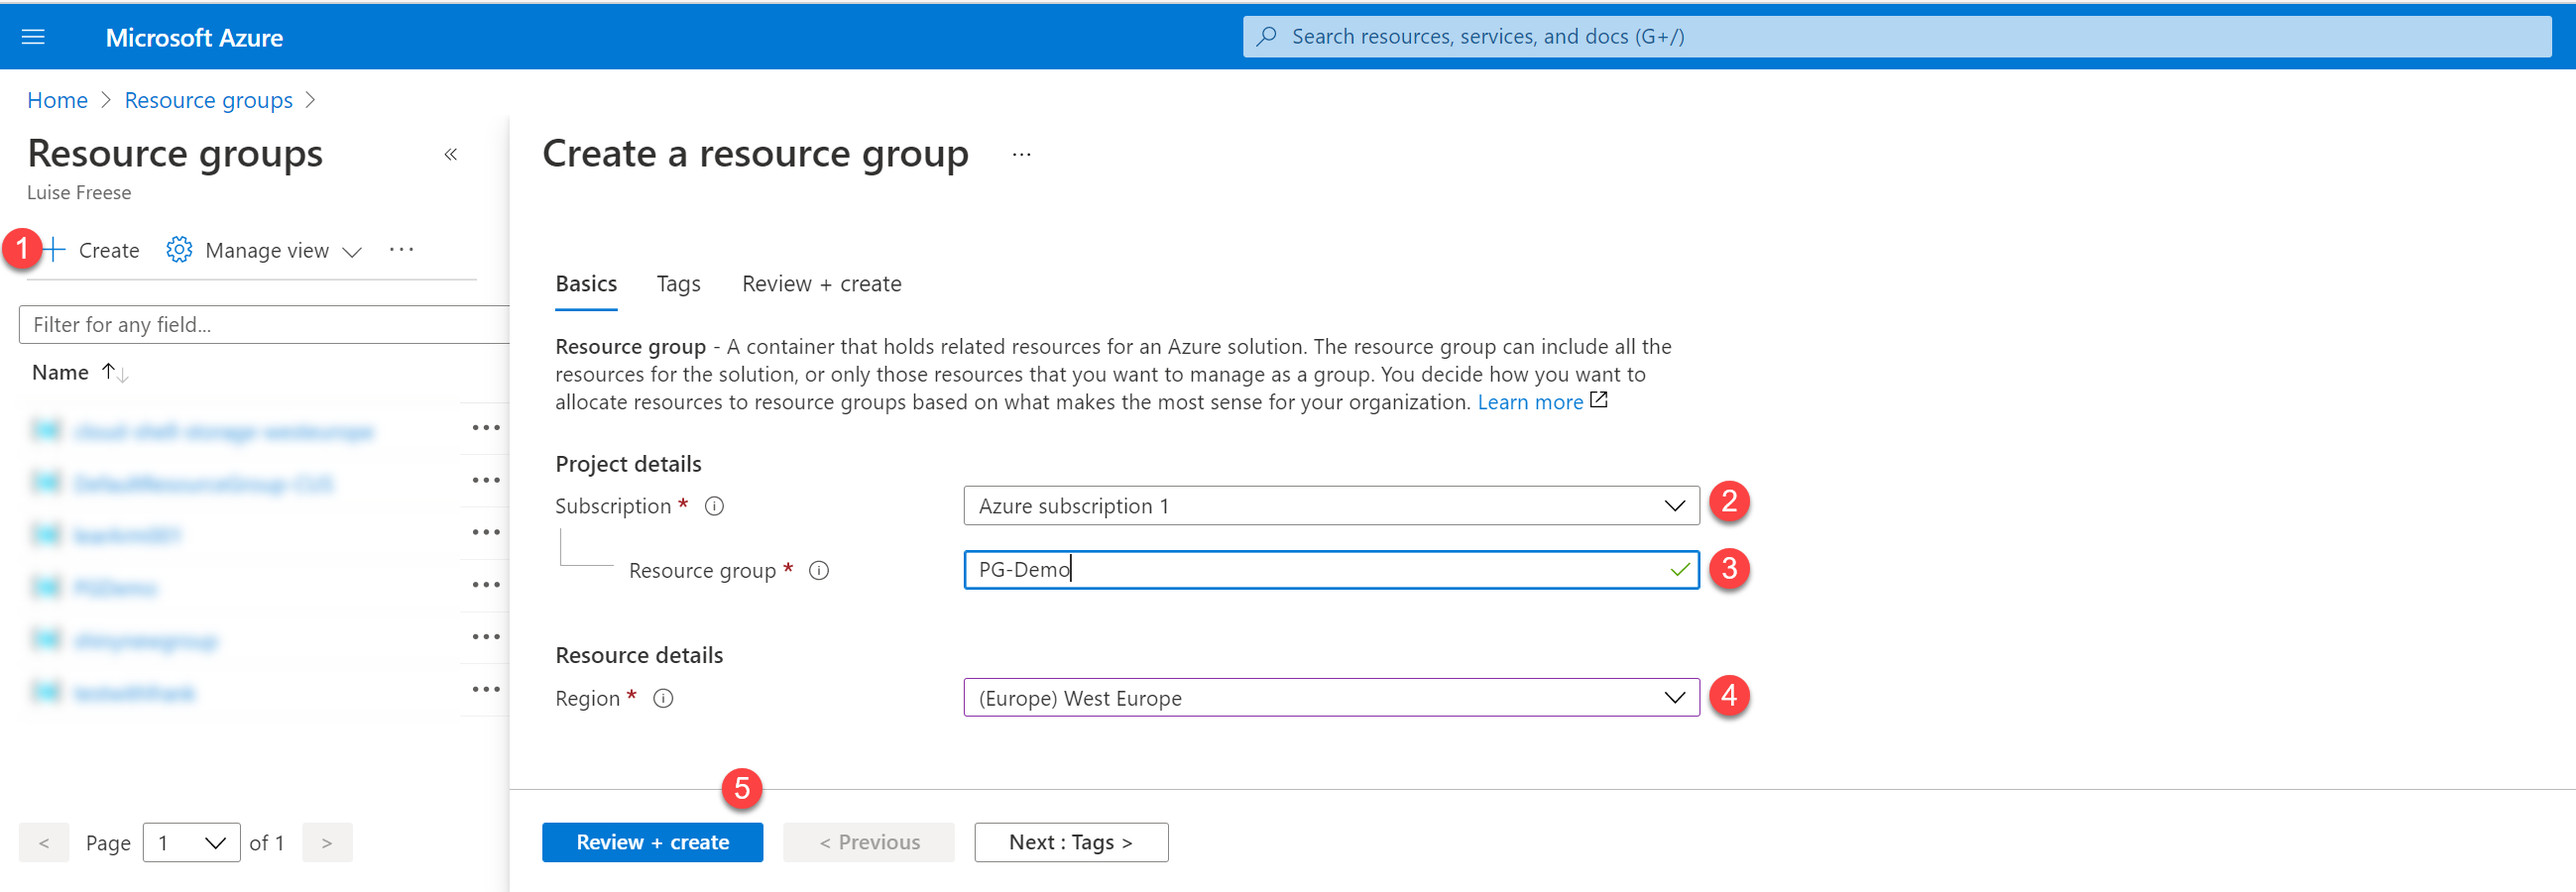
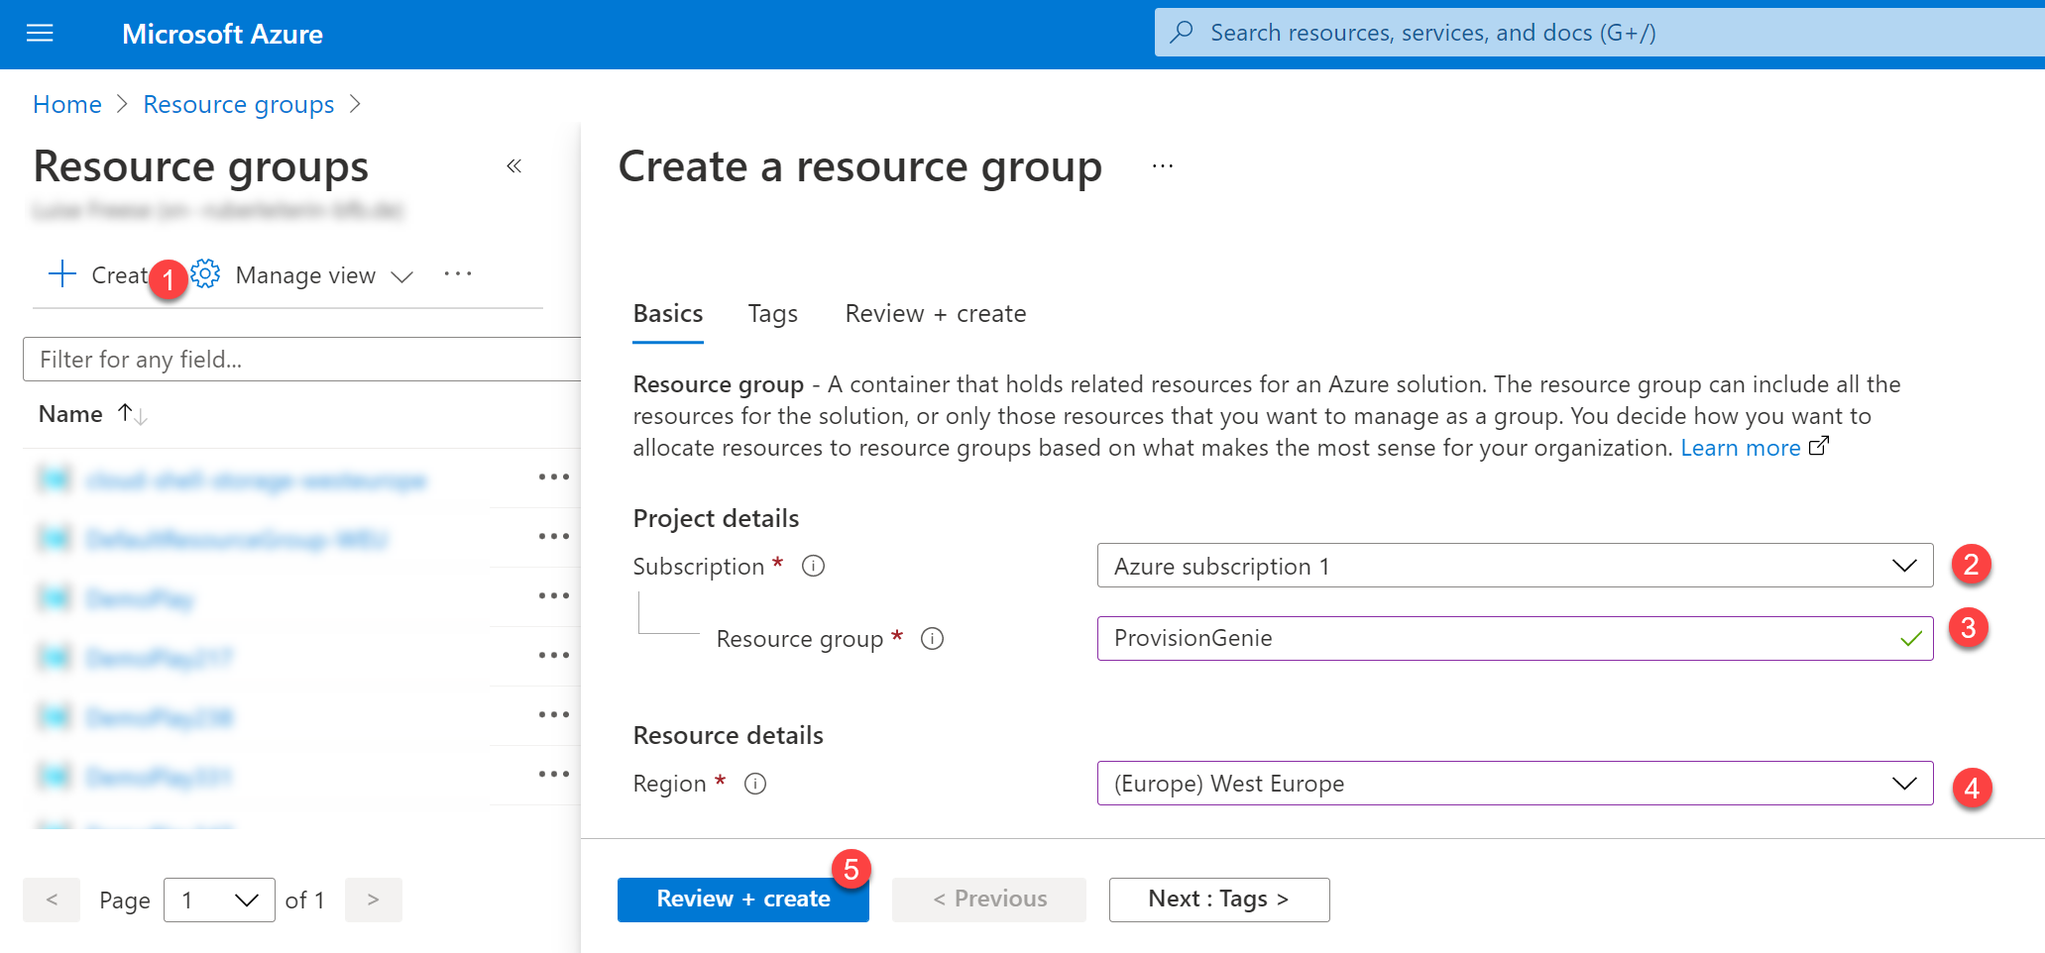
DOCS excluded CLI way to create resources for conciseness, adds consistent screenshots for DG, adds Provisiongenie Admin security role

diff --git a/Docs/DeploymentGuide.md b/Docs/DeploymentGuide.md
@@ -15,7 +15,7 @@ This guide shall walk you through the minimal path to awesome. It lists all step
 - Admin role Azure: [Contributor](https://docs.microsoft.com/azure/role-based-access-control/built-in-roles#contributor)
 - Power Platform role: [System Administrator](https://docs.microsoft.com/power-platform/admin/database-security)
 
-## Steps
+## Deployment steps
 
 In order to successfully deploy ProvisionGenie, you will need to perform the following steps
 
@@ -31,9 +31,7 @@ You can successfully install and run ProvisionGenie without forking and cloning 
 
 ### 1. App registration to access Dataverse tables
 
-You will need to register an app in Azure AD in order to access the dataverse tables in the Logic Apps. You can register the app either using the [Azure portal](#app-registration-to-access-dataverse-tables-using-azure-portal) or by using [Azure CLI](#app-registration-to-access-dataverse-tables-using-azure-cli)
-
-#### App registration to access Dataverse tables using Azure portal
+You will need to register an app in Azure AD in order to access the dataverse tables in the Logic Apps.
 
 - Go to [portal.azure.com](https://portal.azure.com)
 - Log in
@@ -66,6 +64,8 @@ You will need to register an app in Azure AD in order to access the dataverse ta
 - (1) Grant admin consent
 - (2) Confirm with **Yes**
 
+![Grant Admin Consent](/docs/media/AzureAdGrantAdminConsent.png)
+
 Let's now create a secret:
 
 - (1) Select **Certificates & secrets**
@@ -88,77 +88,39 @@ Let's now create a secret:
 
 That's it!
 
-#### App registration to access Dataverse tables using Azure CLI
-
-The alternative for the steps above using the Azure portal is using Azure CLI. Follow these steps:
-
-- Open [shell.azure.com](https://portal.azure.com/#cloudshell/)
-- to register the application run
-
-```Azure CLI
-az ad app create --display-name ProvisionGenieApp --available-to-other-tenants false
-#save the appId
-$adappid =(az ad app list --display-name ProvisionGenieApp --query [0].appId --out tsv --all)
-# create an app secret, run
-az ad app credential reset --id $adappId --append
-```
-
-In the output, you will get four values for
-
-- **AppId**,
-- **name** (equals **AppId**),
-- **password** (this is your App secret) and
-- **tenant** (this is your TenantID).
-
-Save these values somewhere, you can do this here: [copied values](../Deployment/CopiedValues.md) -This way you have everything handy when you need it. Please take care that you don't commit this file in case you want to contribute to ProvisionGenie.
-
-```azurecli
-
-#Set API permissions for user impersonation in Dynamics CRM
-az ad app permission add --id $adappid --api 00000007-0000-0000-c000-000000000000 --api-permissions 78ce3f0f-a1ce-49c2-8cde-64b5c0896db4=Role
-```
-
-Note, that `00000007-0000-0000-c000-000000000000` is Dynamics CRM and `78ce3f0f-a1ce-49c2-8cde-64b5c0896db4=Role` is **user_impersonation** which we need to act on behalf of a user.
-
-- now grant admin consent by running
-
-```azurecli
-az ad app permission grant --id $adappid --api 00000007-0000-0000-c000-000000000000
-```
-
-That's it!
-
 ### 2. Dataverse solution
 
 We built ProvisionGenie by using Dataverse mostly for security reasons. We do not want to give users a way to bypass the canvas app and access data they shouldn't have access to. This concern was one of our main reasons to not use SharePoint lists to log requests as you would need to share the list with every user. That means that they could create new items, manipulate and even delete data. For more information, head over to [Architecture Decisions](/Docs/ArchitectureDecisions.md#database).
 
-In Dataverse, we can setup [security roles](https://docs.microsoft.com/power-platform/admin/database-security#assign-security-roles-to-users-in-an-environment-that-has-a-dataverse-database) to prevent this and we made a security role `ProvisionGenie user` part of the solution that you will import in the next steps.
+In Dataverse, we can setup [security roles](https://docs.microsoft.com/power-platform/admin/database-security#assign-security-roles-to-users-in-an-environment-that-has-a-dataverse-database) to prevent this and we created two security roles `ProvisionGenie admin` and `ProvisionGenie user` as part of the solution that you will import in the next steps.
 
 You will need to create an application user and assign the security role to it.
 
 1. In case you don't have already an environment that you want to use for ProvisionGenie, follow these steps to [create a new environment with a database](https://docs.microsoft.com/power-platform/admin/create-environment#create-an-environment-with-a-database)
 
-Important to know: a Dataverse for Teams environment is not enough - for reference read our [Architecture Decisions](/Docs/ArchitectureDecisions.md)
+Important to know: a **Dataverse for Teams** environment is not enough - for reference read our [Architecture Decisions](/Docs/ArchitectureDecisions.md)
 
 2. Import our solution with
 
 - Dataverse tables to log the requests
 - ProvisionGenie canvas app as the UI
+- Security role `Provision Genie admin`
 - Security role `Provision Genie user`
 
 from here: [ProvisionGenie Solution](/Deployment/Solution)
 
 In case this is the first time you import a solution, follow the steps described here: [Import a Power Platform solution](https://docs.microsoft.com/powerapps/maker/data-platform/import-update-export-solutions)
 
-a. Create an application user and the assign security role `Provision Genie user` and the role `Basic user` as part of the creation process as described here: [Create an application user](https://docs.microsoft.com/power-platform/admin/manage-application-users#create-an-application-user)
+- Create an application user and the assign security role `Provision Genie admin` and the role `Basic user` as part of the creation process as described here: [Create an application user](https://docs.microsoft.com/power-platform/admin/manage-application-users#create-an-application-user)
 
-b. Assign the security roles `Basic user` and `Provision Genie user` to all users that will be able to use ProvisionGenie for team creation.
+- Assign the security roles `Basic user` and `Provision Genie user` to all users that will be able to use ProvisionGenie for team creation.
 
-- You can assign the role to individual people using the steps explained [here](https://docs.microsoft.com/power-platform/admin/database-security#assign-security-roles-to-users-in-an-environment-that-has-a-dataverse-database)
-- Alternatively, you can bulk assign roles to people by following the next steps:
+  - You can assign the role to individual people using the steps explained [here](https://docs.microsoft.com/power-platform/admin/database-security#assign-security-roles-to-users-in-an-environment-that-has-a-dataverse-database)
+  - Alternatively, you can bulk assign roles to people by following the next steps:
 
-  - Go to the Power Platform admin center and select your environment (step 1 and 2 in the guide above)
-  - In the Access pane, select **See all** under **Users**.
+    - Go to the [Power Platform admin center](https://admin. powerplatform.microsoft.com) and select your environment (step 1 and 2 in the guide above)
+
+  - In the Access pane, select **See all** under **Users**
 
   ![Users - see all](media/EnvironmentSettingsUsersSeeAll.png)
 
@@ -179,37 +141,19 @@ b. Assign the security roles `Basic user` and `Provision Genie user` to all user
 - Open [make.powerapps.com](https://make.powerapps.com)
 - Select the **Settings** gear
 - Select **Session details**
-- Copy the **Instance URL** from [make.powerapps.com](https://make.powerapps.com), save it here: [copied values](../Deployment/CopiedValues.md)
+- The value we need here is the **Instance URL** from [make.powerapps.com](https://make.powerapps.com), save it here: [copied values](../Deployment/CopiedValues.md)
 
 ![Power Apps session details](media/PAStudioSessionDetails.png)
 
-### 3. Create new Azure resource group
+### 3. Create a new Azure resource group
 
 The yet-to-deploy Azure Logic Apps will need a resource group to be deployed in. We recommend creating a new resource group `ProvisionGenie`.
 
 Additionally, you will need a second resource group `ProvisionGenie-deploy` in which you temporarily store the template files in. After successful deployment, you may delete this second resource group.
 
-You can create both resource groups [via the Azure portal](DeploymentGuide.md#new-resource-group-with-Azure-portal) or [via Azure CLI](DeploymentGuide.md#new-resource-group-with-Azure-cli).
-
-#### New resource group with Azure CLI
-
 ⚡ Repeat the following steps for both resource groups
 
-- open [shell.azure.com](https://portal.azure.com/#cloudshell/)
-- run
-
-```Azure CLI
-az group create -n <your-resourcegroupname-here> --location <your-location-here>
-```
-
-#### New resource group with Azure portal
-
-⚡ Repeat the following steps for both resource groups
-
-As an alternative to use Azure CLI to create a new resource group, you can also complete the following steps in the Azure portal:
-
-- Go to [portal.azure.com](https://portal.azure.com)
-- Log in
+- Open [portal.azure.com](https://portal.azure.com)
 - (1) Select the Menu
 - (2) Select **Resource groups**
 
@@ -217,8 +161,8 @@ As an alternative to use Azure CLI to create a new resource group, you can also 
 
 - (1) Select **Create**
 - (2) Select a subscription
-- (3) Enter the name of the Resource Group you wish to create, like `ProvisionGenie`
-- (4) Select the region
+- (3) Enter the name of the Resource Group you wish to create: `ProvisionGenie` and for the second one `ProvisionGenie-deploy`
+- (4) Select the region, save the value here: [copied values](../Deployment/CopiedValues.md)
 - (5) Select **Review & create**
 
 ![Azure Portal Resource group create](media/AzureResourceGroupCreateForm.png)
@@ -241,7 +185,7 @@ That's it!
 
 ### 4. Deployment of Azure Logic Apps
 
-In the `ProvisionGenie-deploy` resource group, create a new storage account via Azure portal to store the template files
+In the `ProvisionGenie-deploy` resource group, create a new storage account to store the template files
 
 #### Create Storage account in Azure portal
 
@@ -252,41 +196,50 @@ In the `ProvisionGenie-deploy` resource group, create a new storage account via 
 - Search for `storage account`
 - Select **Storage account**
 - Select **Create**
-- Fil out the form as shown:
+- Fill out the form as shown:
+  - (1) Select your Azure subscription
+  - (2) Select the `ProvisionGenie-deploy` resource group
+  - (3) Type in a storage account name like `provisiongeniedeploy`
+  - (4) Select your preferred region
+  - (5) Select **Review + create**
 
 ![Create storage account](/Docs/media/AzurePortalCreateStorage.png)
 
-- Select **Review + Create**
 - Review if everything looks ok - note that you see a **Validation passed** banner
-
-![validation passed](/Docs/media/AzurePortalValidationpassed.png)
-
 - Select **Create**
 
 This will take a moment or two, the Azure portal will notify you once this step is completed.
+
+Copy the storage account name (`provisiongeniedeploy`), save it here: [copied values](../Deployment/CopiedValues.md)
 
 ##### Upload the deployment files into a container in the storage account
 
 in your new Storage account,
 
-- Select **Containers**
-- Select **+ Container**
-- Type in `templates` in the form as a Name
-- Select **Create**
+- (1) Select **Containers**
+- (2) Select **+ Container**
+- (3) Type in `templates` in the form as a Name
+- (4) Select **Create**
 
 ![create container](/Docs/media/AzurePortalCreateContainer.png)
 
-Now upload the template files you can find in [ARM folder](/Deployment/ARM) into the `templates` container you just created.
+Now upload the template files you can find in [ARM folder](/Deployment/ARM) into the `templates` container you just created:
+
+- (1) Select **Upload**
+- (2) Select the template files
+- (3) Select **Upload**
 
 ![upload template files](Docs/media/../../media/AzurePortalUploadFiles.png)
 
 We will now create a Shared Access Token in the Container:
 
-- Select **Shared access tokens**
-- Select **Generate SAS token and URL**
-- Copy the **Blob SAS token** value, save it here: [copied values](../Deployment/CopiedValues.md)
+- (1) Select **Shared access tokens**
+- (2) Select **Generate SAS token and URL**
+- (3) Copy the **Blob SAS token** value, save it here: [copied values](../Deployment/CopiedValues.md)
 
 ![shared access token](Docs/media/../../media/AzurePortalSAS.png)
+
+![copy sas token](Docs/media/AzurePortalSASCopy.png)
 
 ##### prepare your deployment script
 
@@ -298,11 +251,11 @@ We will now create a Shared Access Token in the Container:
   - $QueryString value to the SAS token you just copied
 
 - Execute the script in Azure cloud shell at [shell.azure.com](https://shell.azure.com)
-- the script will run and prompt you to provide some parameters - please have those handy:
+- the script will run and prompt you to provide some parameters, they should now all be saved in here: [copied values](../Deployment/CopiedValues.md)
 
   - your Subscription ID
-  - the Environment ID
-  - the URL for learning material (if you don't know that for now, you can put `https://microsoft.com` or any other URL into it)
+  - the Environment ID (you obtained it as **Instance URL**)
+  - the URL for learning material (if you don't know that for now, you can put `https://m365princess.com` or any other URL into it)
   - the App ID from your Azure AD app registration
   - the App secret from your Azure AD app registration
   - the Tenant ID from you Azure AD app registration
@@ -313,6 +266,7 @@ $originResourceGroupName="<your resource group name here>"
 $storageAccountName="<your storage account name here>"
 $containerName = "templates"
 $location = "<your location here>"
+$sasToken = "<your SAS token here>"
 
 # Create a key
 $key = (Get-AzStorageAccountKey -ResourceGroupName $originResourceGroupName -Name $storageAccountName).Value[0]
@@ -325,7 +279,7 @@ New-AzResourceGroupDeployment `
   -Name DeployLinkedTemplate `
   -ResourceGroupName $targetResourceGroupName `
   -TemplateUri $mainTemplateUri `
-  -QueryString  "<YOUR SAS TOKEN GOES IN HERE>" `
+  -QueryString $sasToken `
   -verbose
 ```
 
@@ -346,7 +300,7 @@ After successful deployment, head over to the [Azure portal](https://portal.azur
 - In the following script, paste this Object ID as value of $principalId and run the script in Azure cloud shell.
 
 ```Azure CLI
-$principalId = '<YOUR MANAGEDIDENTITY OBJECTID GOES HERE>'
+$principalId = '<your managed identity object ID goes here>'
 $graphResourceId = $(az ad sp list --display-name "Microsoft Graph" --query [0].objectId --out tsv)
 #Get appRoleIds for Team.Create, Group.ReadWrite.All, Directory.ReadWrite.All, Group.Create, Sites.Manage.All, Sites.ReadWrite.All
 $graphId = az ad sp list --query "[?appDisplayName=='Microsoft Graph'].appId | [0]" --all
@@ -370,5 +324,7 @@ It should look like this:
 ![Azure AD ManagedIDentity permissions](media/AzureADMIPermissions.png)
 
 If you wish, you can now delete storage account in `provisiongenie-deploy` resource group - In case you want/need to redeploy, you would need to recreate it to successfully run the deploy script.
+
+Now make sure that you exclude [copied values](../Deployment/CopiedValues.md) from any future commits to this repository- we don't want you to accidentally leak secrets.
 
 Congrats! 🧞 - You made it- We hope you enjoy ProvisionGenie!

diff --git a/Deployment/CopiedValues.md b/Deployment/CopiedValues.md
@@ -5,7 +5,9 @@ During the deployment process, you will need some values and we recommend to sav
 - AZ AD App registration secret:
 - AZ AD App registration app ID:
 - Tenant ID:
-- Blob SAS token:
 - Power Apps Instance URL:
 - Azure Subscription ID:
+- Storage account name:
+- Blob SAS token:
 - Managed Identity Object ID:
+- Azure region:
